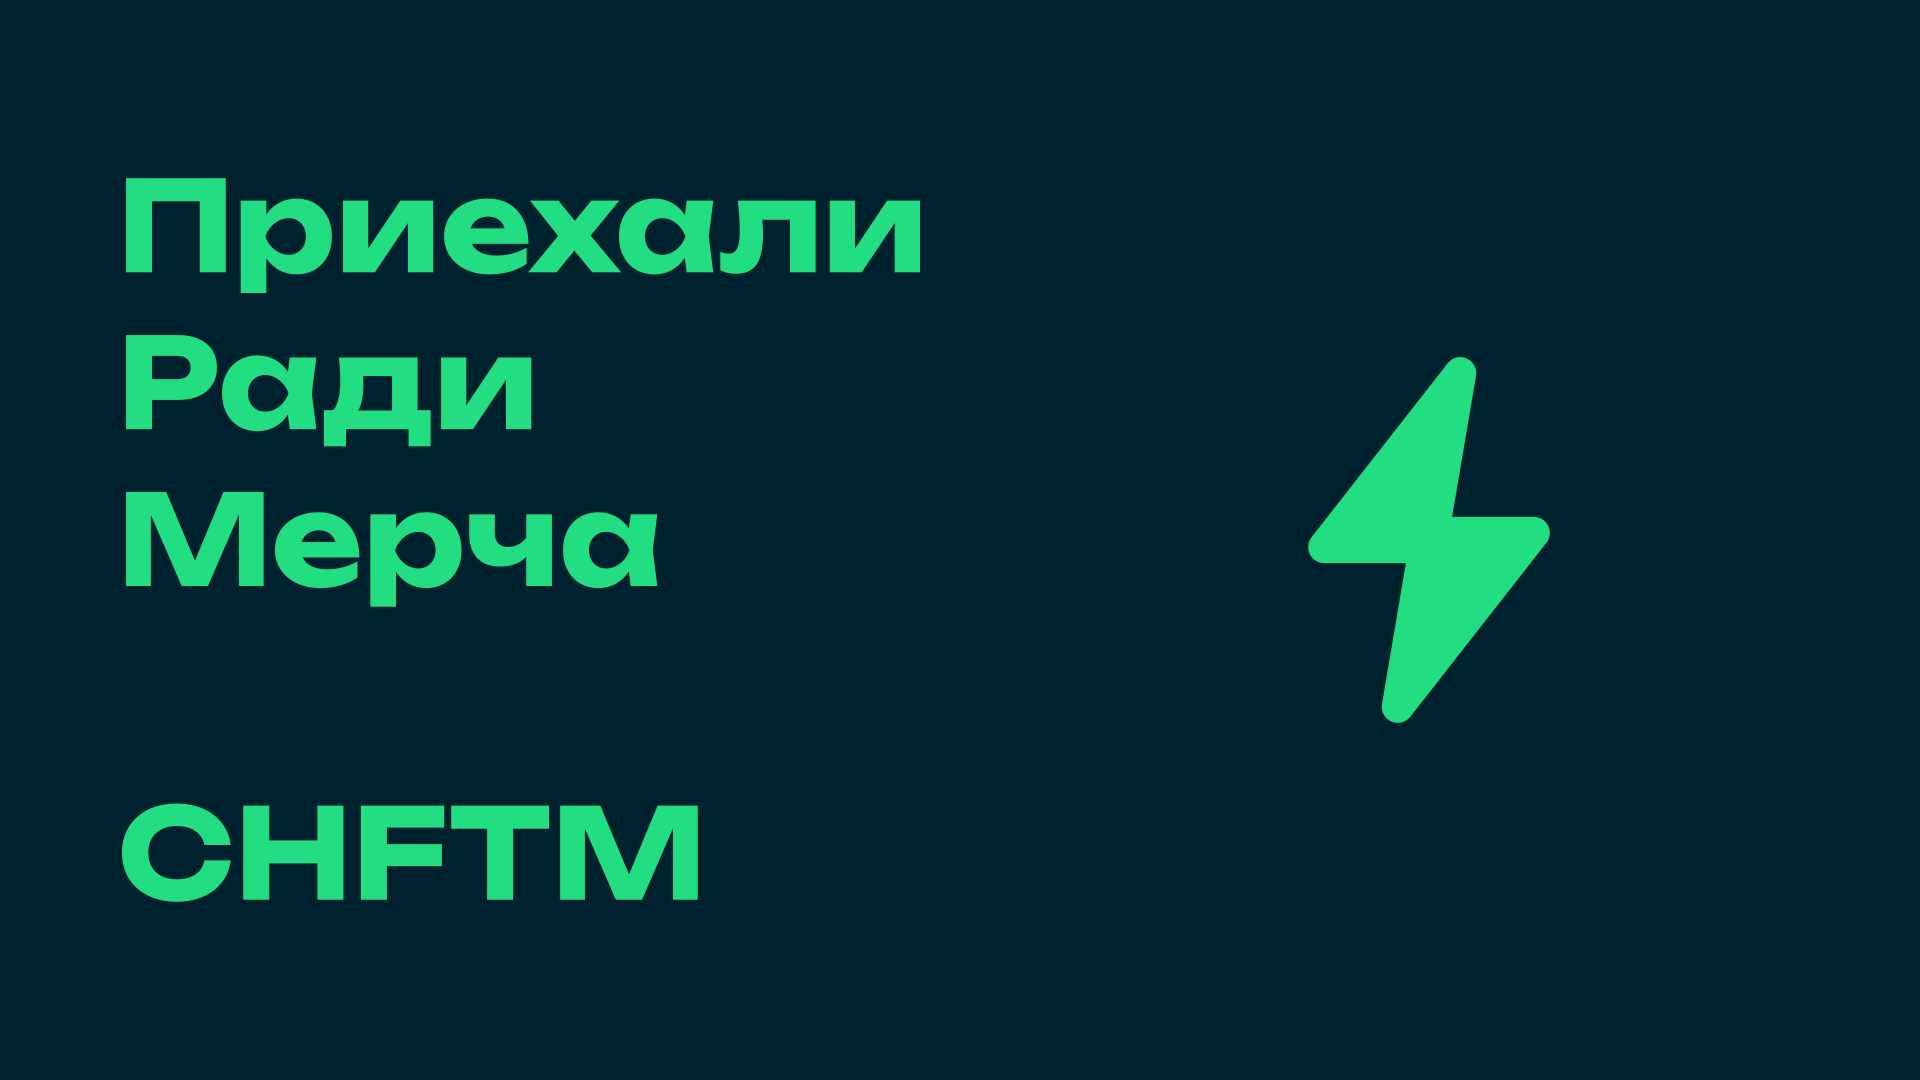
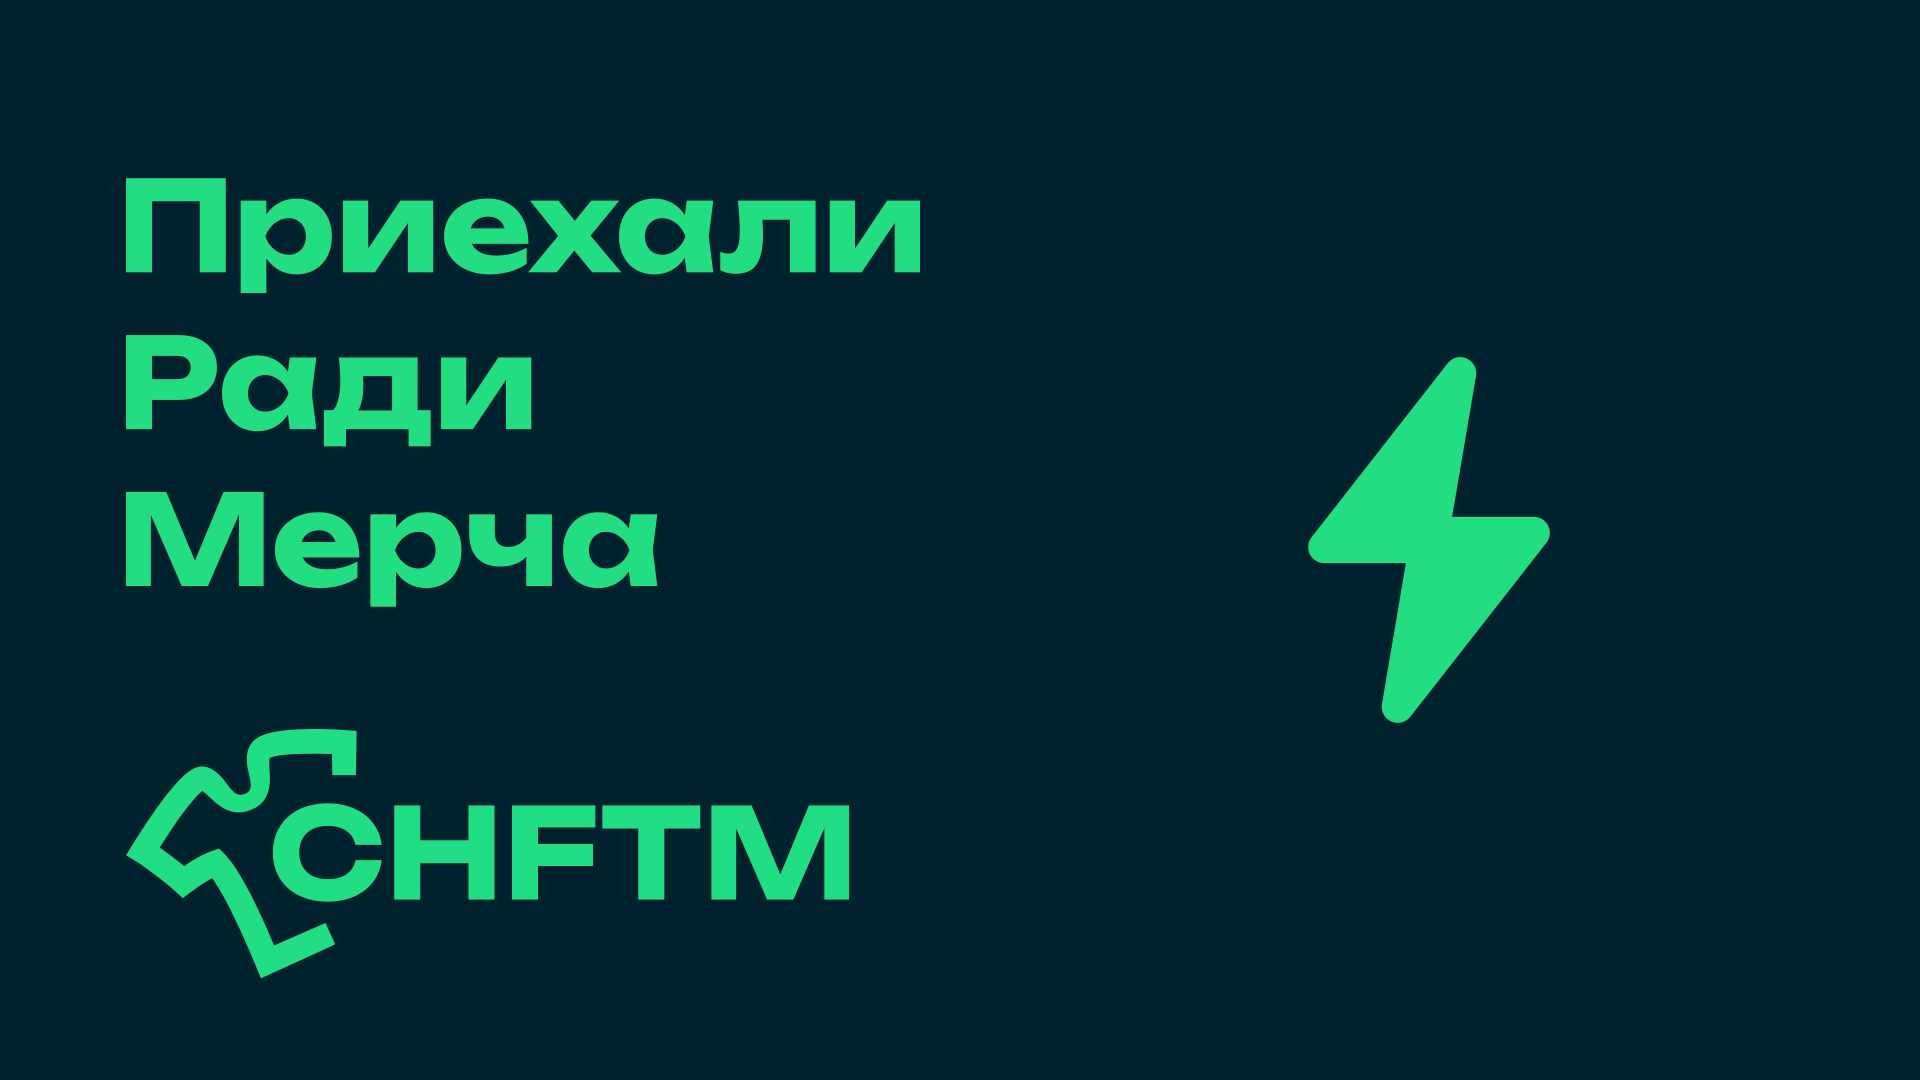
new branding by @onl1yw

Changed region(s): [[0.0625, 0.6722, 0.4688, 0.9167]]

diff --git a/CREDITS.md b/CREDITS.md
@@ -1,6 +1,5 @@
-Icons used in the logo:
+Icon used in readme badges and other branding elements:
 
-- Shirt by Naveen from [Noun Project](https://thenounproject.com/browse/icons/term/shirt)
 - Lightning by Sita Raisita from [Noun Project](https://thenounproject.com/browse/icons/term/lightning)
 
 Font: https://unbounded.polkadot.network/
